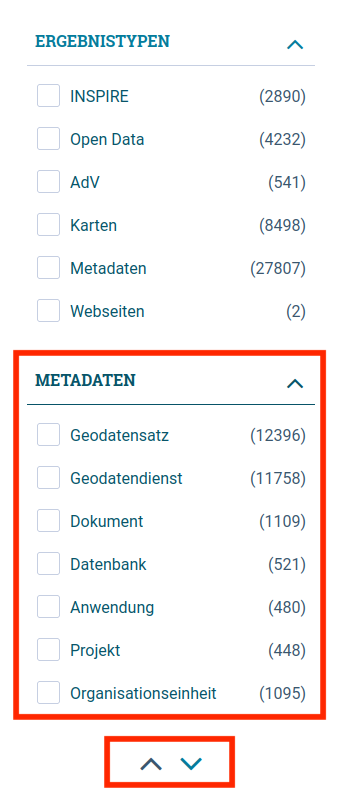
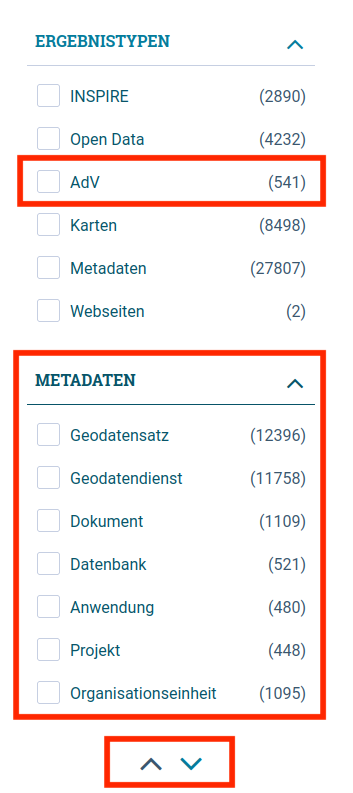
Correct important changes to release notes 6.2.0

Changed region(s): [[0.0312, 0.1816, 0.9348, 0.2724]]

diff --git a/latest/about/history.md b/latest/about/history.md
@@ -16,6 +16,9 @@ Release 11.07.2023
 
 #### Portal: Neue Facetten wurden hinzugefügt im Profil MetaVer
 
+Mehrfachauswahl
+
+
 Die Facetten wurden umstrukturiert. Als Facette auf der obersten Ebene wurde "Metadaten" eingeführt. Unterhalb der Facette "Metadaten" werden die einzelnen Objektklassen gelistet.
 Unterhalb der bestehenden Facette "Ergebnistypen" wurde eine neue Facette "AdV" eingefügt.
 ([REDMINE-5043](https://redmine.informationgrid.eu/issues/5043))
@@ -25,7 +28,7 @@ Unterhalb der bestehenden Facette "Ergebnistypen" wurde eine neue Facette "AdV" 
 
 #### Portal: Neuer Bereich "API" im Profil HMDK
 
-Für das Profil HMDK wurde ein neuer Bereich "API" erstellt. Dort sollen die [Programmierschnittstellen](https://de.wikipedia.org/wiki/Programmierschnittstelle) des niedersächsischen Umweltportals dokumentiert werden.
+Für das Profil HMDK wurde ein neuer Bereich "API" erstellt. Dort sollen die [Programmierschnittstellen](https://de.wikipedia.org/wiki/Programmierschnittstelle) des Hamburger Metadatenkatalogs dokumentiert werden.
 Vorlage ist [bund.dev](https://bund.dev) ([REDMINE-5056](https://redmine.informationgrid.eu/issues/5056)).
 
 ![Portal: Neuer Bereich "API" im Profil HMDK - Ansicht Portal Enduser](../images/620_611_portal_hmdk_api.png "Portal: Neuer Bereich "API" im Profil HMDK - Ansicht Portal Enduser")
@@ -51,19 +54,19 @@ Im Portal wurde ein neues Inhaltselement `ingrid.teaser.inform.2` eingefügt. Da
 ![Portal: Neues Inhaltselement für zweiten Hinweistext im Profil LUBW - Startseite](../images/620_portal_lubw_startpage_new-teaser.png "Portal: Neues Inhaltselement für zweiten Hinweistext im Profil LUBW - Startseite")
 <figcaption class="figcaption">Portal: Neues Inhaltselement für zweiten Hinweistext im Profil LUBW - Startseite</figcaption>
 
-#### Suche: Neuer Schalter "Nur aktuelle" für Facette "Verfahrenstypen"
+#### Suche: Schalter "Nur aktuelle" für Facette "Verfahrenstypen" angepasst
 
-Für die Facette "Verfahrenstypen" wurde der Schalter "Nur aktuelle" hinzugefügt.
+Für die Facette "Verfahrenstypen" wurde der Schalter "Nur aktuelle" verbessert.
+Bei aktivem Schalter werden jetzt bei allen Verfahrensarten auch die laufenden Verfahren angezeigt und nicht nur die Verfahren mit "Datum der Entscheidung jünger als 1 Jahr".
 ([REDMINE-5190](https://redmine.informationgrid.eu/issues/5190))
 
-![Suche: Neuer Schalter "Nur aktuelle" für Facette "Verfahrenstypen"](../images/620_portal_uvp_search-facet-procedure-typ.jpg "Suche: Neuer Schalter "Nur aktuelle" für Facette "Verfahrenstypen"")
-<figcaption class="figcaption">Suche: Neuer Schalter "Nur aktuelle" für Facette "Verfahrenstypen"</figcaption>
+![Suche: Schalter "Nur aktuelle" für Facette "Verfahrenstypen" angepasst](../images/620_portal_uvp_search-facet-procedure-typ.jpg "Suche: Schalter "Nur aktuelle" für Facette "Verfahrenstypen" angepasst")
+<figcaption class="figcaption">Suche: Schalter "Nur aktuelle" für Facette "Verfahrenstypen" angepasst</figcaption>
 
 #### Portal: "Kartenansicht öffnen" verweist jetzt auf das Geoportal Hamburg
 
 Für Geodatensätze und Geodatendienste wird bei Klick auf "Kartenansicht öffnen" nicht mehr die interne Kartenkomponente geöffnet, sondern in einem neuen Fenster die externe URL geoportal-hamburg.de mit der UUID des Datensatzes.
-Beispiel nach Klick auf "Kartenansicht öffnen" für "Schulstammdaten und Schülerzahlen der Hamburger Schulen":
-https://geoportal-hamburg.de/geo-online/?mdid=D3DDBBA3-7329-475C-BB07-14D539ED6B1E
+Beispiel nach Klick auf "Kartenansicht öffnen" für ["Schulstammdaten und Schülerzahlen der Hamburger Schulen"](https://geoportal-hamburg.de/geo-online/?mdid=D3DDBBA3-7329-475C-BB07-14D539ED6B1E)
 ([REDMINE-4680](https://redmine.informationgrid.eu/issues/4680))
 
 ![Portal: "Kartenansicht öffnen" verweist jetzt auf das Geoportal Hamburg](../images/620_611_portal_hmdk_view_external_map.png "Portal: "Kartenansicht öffnen" verweist jetzt auf das Geoportal Hamburg"")
@@ -84,8 +87,8 @@ Ist die Einstellung aktiv, so wird die Maßstabszahl angezeigt, ansonsten die Ma
 
 #### Portal: Neuer Verweis auf ARS-Tool in Hilfetext im Profil MetaVer
 
-Eine interaktive Suche nach amtlichen Regionalschlüsseln ermöglicht das ARS-Tool:
-https://opengovtech.de/ars
+Eine interaktive Suche nach amtlichen Regionalschlüsseln ermöglicht das [ARS-Tool](
+https://opengovtech.de/ars).
 Der Link wurde in den betreffenen Hilfetext eingefügt.
 ([REDMINE-5045](https://redmine.informationgrid.eu/issues/5045))
 
@@ -94,7 +97,7 @@ Der Link wurde in den betreffenen Hilfetext eingefügt.
 
 #### System: Speichernutzung für die InGrid-Komponenten wurde verbessert
 
-Die Speichernutzung für jede InGrid-Komponente wurde optimiert. Dafür wurden Konfigurationsparameter der Java Virtual Machine angepasst.
+Die Speichernutzung für die InGrid-Komponenten wurde optimiert. Dafür wurden Konfigurationsparameter der Java Virtual Machine angepasst.
 ([REDMINE-5117](https://redmine.informationgrid.eu/issues/5117))
 
 
